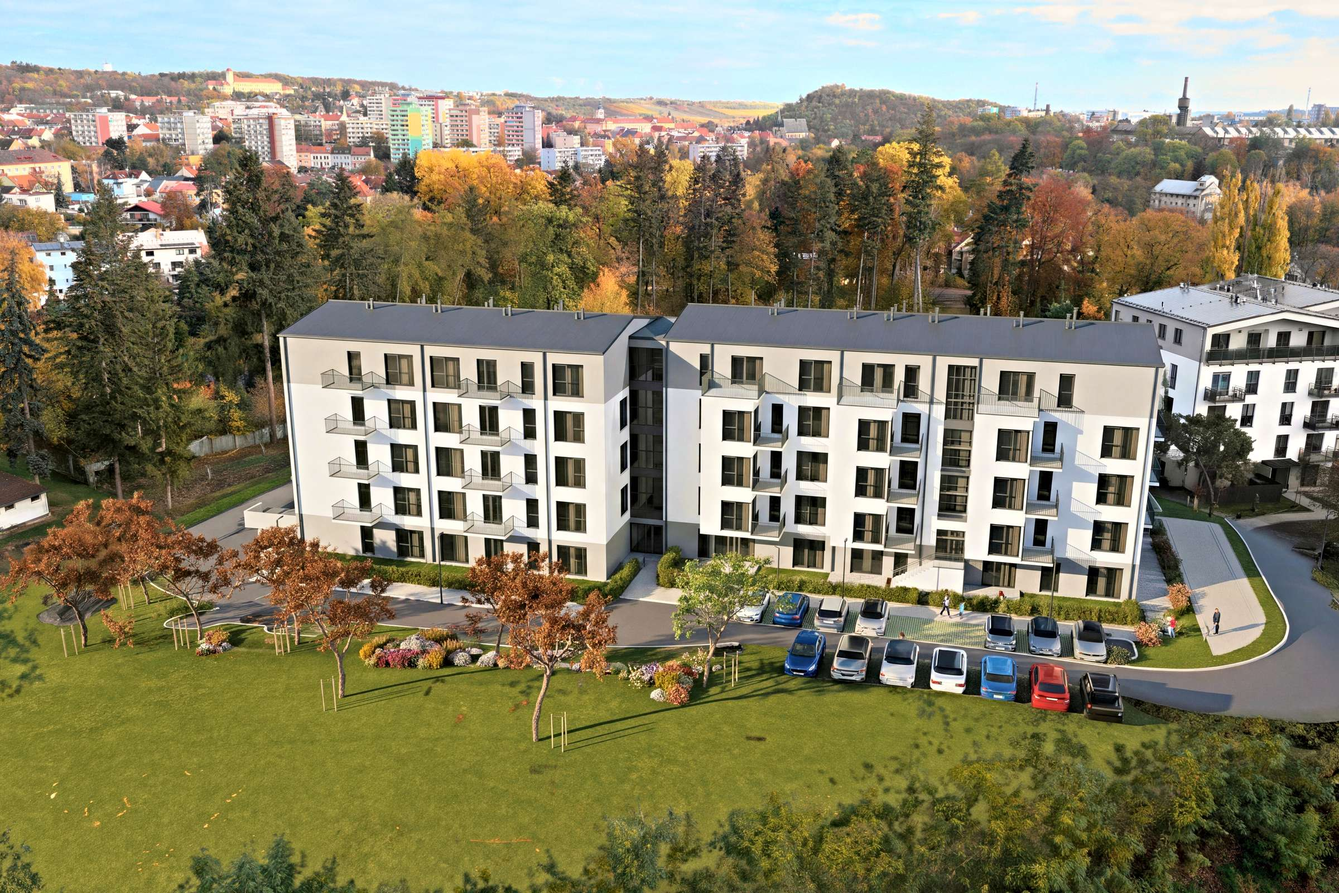
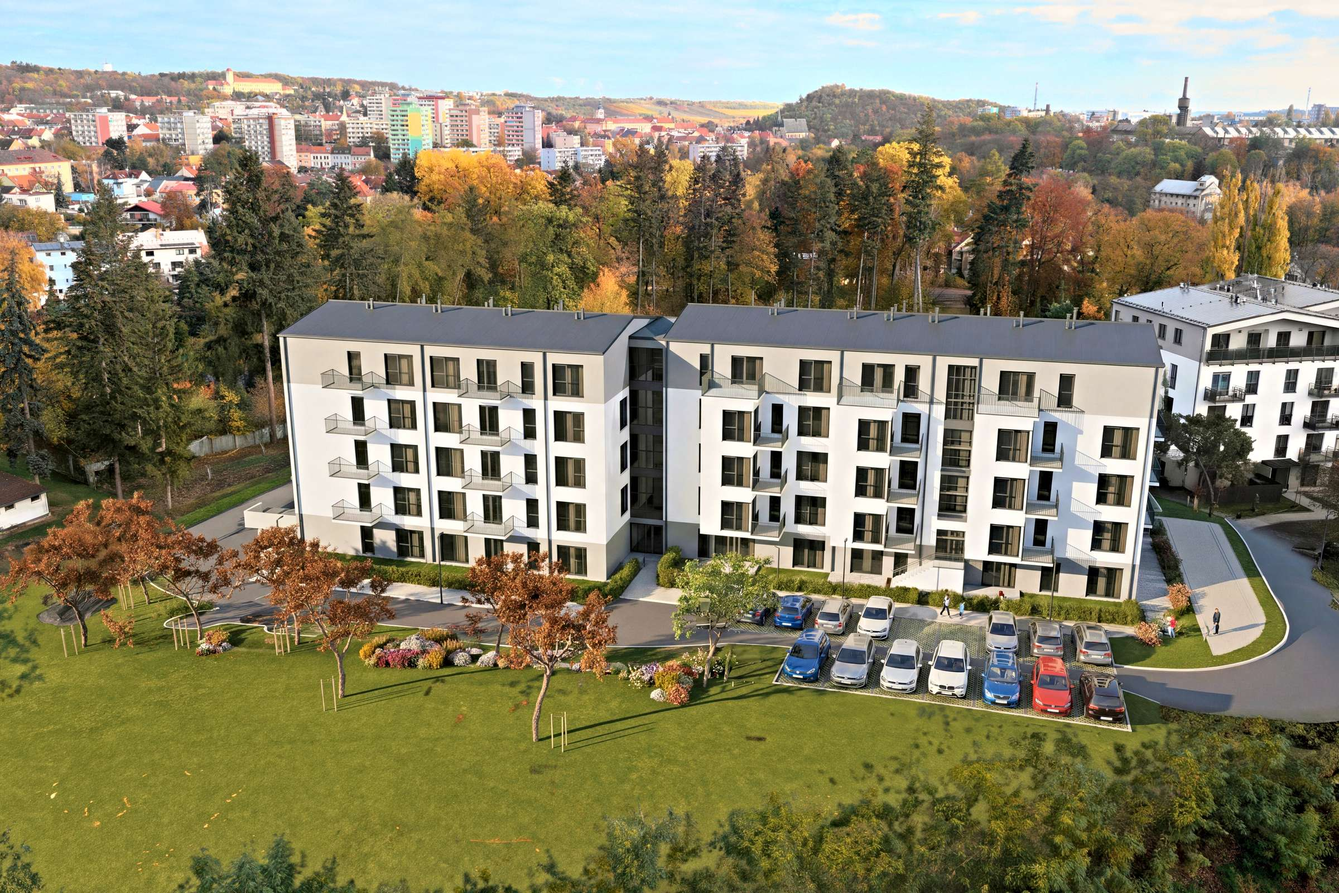
Průběh: vizualizace D1–D4 se skutečnými auty (místo krabic), bez parkovacích kapes SO 04

Changed region(s): [[0.5, 0.625, 0.875, 0.8438]]

diff --git a/prubeh/index.html b/prubeh/index.html
@@ -236,7 +236,7 @@
 
 <div class="pg">
 <div class="hero" style="height:520px">
-  <img src="img/hero_bb.jpg?v=202611020943" alt="Byty Borovského, Verde Slaný">
+  <img src="img/hero_bb.jpg?v=202611021023" alt="Byty Borovského, Verde Slaný">
   <div class="wrap">
     <div class="lockup"><svg class="glyph" viewBox="0 0 64 64"><g stroke="currentColor" stroke-width="5" stroke-linecap="round" fill="none"><line x1="32" y1="32" x2="17" y2="17"/><line x1="32" y1="32" x2="47" y2="17"/><line x1="32" y1="32" x2="17" y2="47"/><line x1="32" y1="32" x2="47" y2="47"/></g><g fill="none" stroke="currentColor" stroke-width="4.5"><circle cx="17" cy="17" r="8.5"/><circle cx="47" cy="17" r="8.5"/><circle cx="17" cy="47" r="8.5"/><circle cx="47" cy="47" r="8.5"/></g><rect x="25.5" y="25.5" width="13" height="13" rx="3.5" fill="currentColor"/></svg><div class="wstack"><span class="wtop">FRANTIŠEK</span><span class="wbot">DRON</span></div></div>
     <div class="eyebrow">Průběh postprodukce · stav k 2. 11. 2026 · Byty Borovského a Verde Slaný II</div>
@@ -249,19 +249,19 @@
 <section class="sec"><div class="wrap">
   <div class="eyebrow">Na čem pracujeme</div>
   <div class="done">
-    <figure><div class="trio"><img src="img/foto_obyvak.jpg?v=202611020943" alt="Obývák mezonetu"><img src="img/foto_ext.jpg?v=202611020943" alt="Byty Borovského"><img src="img/foto_dron.jpg?v=202611020943" alt="Slaný z dronu"></div>
+    <figure><div class="trio"><img src="img/foto_obyvak.jpg?v=202611021023" alt="Obývák mezonetu"><img src="img/foto_ext.jpg?v=202611021023" alt="Byty Borovského"><img src="img/foto_dron.jpg?v=202611021023" alt="Slaný z dronu"></div>
       <figcaption><span class="stav ceka">Rozpracováno</span><b>Fotky z natáčení</b>93 fotek bytu a okolí, každá složená z pěti expozic, v jednotné barvě. Teď je digitálně čistíme (kabely, záplaty na stropě, staveniště). Fotky z dronu nad stavbou doplníme.</figcaption></figure>
-    <figure><img src="img/so05_shora.jpg?v=202611020943" alt="Model domu SO 05 na mapě" style="aspect-ratio:16/9;object-position:center 60%">
+    <figure><img src="img/so05_shora.jpg?v=202611021023" alt="Model domu SO 05 na mapě" style="aspect-ratio:16/9;object-position:center 60%">
       <figcaption><span class="stav ceka">Rozpracováno</span><b>Dům vyroste: model druhé etapy</b>Dům SO 05 jsme postavili ve 3D podle projektové dokumentace a zasadili do mapy. Obrys sedí na parcelu v katastru. Až zpracujeme záběry z dronu, dům v nich vyroste patro po patru.</figcaption></figure>
-    <figure><img src="img/zakres_etapy.jpg?v=202611020943" alt="Vyznačení dalších etap">
+    <figure><img src="img/zakres_etapy.jpg?v=202611021023" alt="Vyznačení dalších etap">
       <figcaption><span class="stav ceka">Rozpracováno · ke schválení</span><b>Další etapy v jednom záběru</b>Domy, které teprve budou, decentně vyznačíme. Údaje na popiscích potvrď prosím v otázkách.</figcaption></figure>
-    <figure><div class="pair"><img src="img/grafika_titulek.jpg?v=202611020943" alt="Titulek Byty Borovského"><img src="img/grafika_karta.jpg?v=202611020943" alt="Závěrečná karta Verde Slaný"></div>
+    <figure><div class="pair"><img src="img/grafika_titulek.jpg?v=202611021023" alt="Titulek Byty Borovského"><img src="img/grafika_karta.jpg?v=202611021023" alt="Závěrečná karta Verde Slaný"></div>
       <figcaption><span class="stav ceka">Rozpracováno · ke schválení</span><b>Grafika podle vašeho logomanuálu</b>Titulky, popisky místností i závěrečná karta v barvách a skladbě loga Verde Slaný. U Bytů Borovského s lososovým akcentem z jejich loga.</figcaption></figure>
-    <figure><img src="img/slany_vyznaceni.jpg?v=202611020943" alt="Slaný z dronu s vyznačením Verde"><figcaption><span class="stav ceka">Rozpracováno</span>
+    <figure><img src="img/slany_vyznaceni.jpg?v=202611021023" alt="Slaný z dronu s vyznačením Verde"><figcaption><span class="stav ceka">Rozpracováno</span>
   <b>Slaný shora s vyznačením Verde</b>Verde, náměstí, kostel, obchody, autobusové nádraží, Kumpánova zahrada a koupaliště v jednom záběru z dronu.</figcaption></figure>
-    <figure class="wide"><div class="viz5"><div class="vz"><img src="img/viz/VIZ01_obyvak.jpg?v=202611020943" alt="Obývák s kuchyní, vizualizace"><span>Vizualizace</span></div><div class="vz"><img src="img/viz/VIZ02_kuchyn.jpg?v=202611020943" alt="Kuchyňský kout, vizualizace"><span>Vizualizace</span></div><div class="vz"><img src="img/viz/VIZ03_loznice.jpg?v=202611020943" alt="Ložnice, vizualizace"><span>Vizualizace</span></div><div class="vz"><img src="img/viz/VIZ04_detsky.jpg?v=202611020943" alt="Dětský pokoj, vizualizace"><span>Vizualizace</span></div><div class="vz"><img src="img/viz/VIZ05_podkrovi.jpg?v=202611020943" alt="Ložnice pod střechou, vizualizace"><span>Vizualizace</span></div></div>
+    <figure class="wide"><div class="viz5"><div class="vz"><img src="img/viz/VIZ01_obyvak.jpg?v=202611021023" alt="Obývák s kuchyní, vizualizace"><span>Vizualizace</span></div><div class="vz"><img src="img/viz/VIZ02_kuchyn.jpg?v=202611021023" alt="Kuchyňský kout, vizualizace"><span>Vizualizace</span></div><div class="vz"><img src="img/viz/VIZ03_loznice.jpg?v=202611021023" alt="Ložnice, vizualizace"><span>Vizualizace</span></div><div class="vz"><img src="img/viz/VIZ04_detsky.jpg?v=202611021023" alt="Dětský pokoj, vizualizace"><span>Vizualizace</span></div><div class="vz"><img src="img/viz/VIZ05_podkrovi.jpg?v=202611021023" alt="Ložnice pod střechou, vizualizace"><span>Vizualizace</span></div></div>
       <figcaption><span class="stav ceka">Rozpracováno · ke schválení</span><b>Zařízený mezonet: vizualizace</b>Jak může prázdný mezonet vypadat zařízený: obývák s kuchyní, ložnice, dětský pokoj a ložnice pod střechou. Stavba je přesně podle fotek, mění se jen nábytek. Ve filmu i v inzerátu vždy se štítkem „Vizualizace“.</figcaption></figure>
-    <figure><img src="img/grafika_popisek.jpg?v=202611020943" alt="Popisek místnosti v mezonetu">
+    <figure><img src="img/grafika_popisek.jpg?v=202611021023" alt="Popisek místnosti v mezonetu">
       <figcaption><span class="stav ceka">Rozpracováno</span><b>Film o mezonetu</b>Skládáme videoprohlídku mezonetu podle karty bytu. Popisky místností budou jako na obrázku. 3D prohlídka mezonetu je už hotová, najdeš ji níže.</figcaption></figure>
   </div>
 </div></section>
@@ -273,10 +273,10 @@
     <figure class="wide"><div class="m3d" id="m3d"><iframe src="model/index.html" title="3D model domu SO 05" loading="lazy" allow="fullscreen" allowfullscreen></iframe><button class="m3d-x" id="m3dx" type="button" aria-label="Zavřít celou obrazovku">✕ Zavřít</button></div>
       <figcaption><span class="stav ceka">Rozpracováno · ke schválení</span><b>3D model domu SO 05</b>Model domu podle projektové dokumentace. Táhnutím ho otočíš, kolečkem nebo dvěma prsty přiblížíš.
         <span class="btns"><button class="btn" id="m3dfull" type="button">Na celou obrazovku</button></span></figcaption></figure>
-    <figure><img src="img/tour_mezonet.jpg?v=202611020943" alt="Náhled 3D prohlídky mezonetu">
+    <figure><img src="img/tour_mezonet.jpg?v=202611021023" alt="Náhled 3D prohlídky mezonetu">
       <figcaption><span class="stav ceka">Rozpracováno</span><b>Mezonet v Bytech Borovského</b>Zatím není finální – jen pro představu, jak to zhruba bude vypadat. 3D prohlídka mezonetu podle fotek z natáčení a karty bytu. Zařízení je ilustrační vizualizace. Přepínačem Prázdný / Zařízený se přepíná mezi prázdným a zařízeným bytem.
         <span class="btns"><a class="btn" href="prohlidka-mezonet/" target="_blank" rel="noopener">Projít ve 3D</a></span></figcaption></figure>
-    <figure><img src="img/tour_byt.jpg?v=202611020943" alt="Náhled 3D prohlídky typového bytu">
+    <figure><img src="img/tour_byt.jpg?v=202611021023" alt="Náhled 3D prohlídky typového bytu">
       <figcaption><span class="stav ceka">Rozpracováno</span><b>Typový byt 3+kk ve druhé etapě</b>Zatím není finální – jen pro představu, jak to zhruba bude vypadat. Byt B.3.3, nejčastější typ v domě (8 bytů), asi 65 m² podle projektové dokumentace. Dům se staví, model je podle výkresů. Zařízení je ilustrační vizualizace, přepínač Prázdný / Zařízený je stejný.
         <span class="btns"><a class="btn" href="prohlidka-byt/" target="_blank" rel="noopener">Projít ve 3D</a></span></figcaption></figure>
   </div>
@@ -288,7 +288,7 @@
   <div class="eyebrow">Dům v záběrech z dronu: vizualizace</div>
   <p class="lead">Dům podle projektové dokumentace jsme vložili do skutečných fotek z dronu a dotáhli do realistické podoby i s okolím, auty a lidmi. Je to rozpracovaná ilustrace k odsouhlasení: okolí vychází ze situace architekta, sousední plochy dalších etap ukazujeme jako upravený trávník, jeřáb a staveniště jsou pryč.</p>
   <div class="done">
-    <figure class="wide"><div class="viz4"><div class="vz zm"><img src="img/viz_d1.jpg?v=202611020943" alt="Top shot, vizualizace domu v záběru z dronu"><span class="lab">Vizualizace</span></div><div class="vz zm"><img src="img/viz_d2.jpg?v=202611020943" alt="Pohled od západu, vizualizace domu v záběru z dronu"><span class="lab">Vizualizace</span></div><div class="vz zm"><img src="img/viz_d3.jpg?v=202611020943" alt="Pohled od jihozápadu, vizualizace domu v záběru z dronu"><span class="lab">Vizualizace</span></div><div class="vz zm"><img src="img/viz_d4.jpg?v=202611020943" alt="Pohled od severovýchodu, vizualizace domu v záběru z dronu"><span class="lab">Vizualizace</span></div></div>
+    <figure class="wide"><div class="viz4"><div class="vz zm"><img src="img/viz_d1.jpg?v=202611021023" alt="Top shot, vizualizace domu v záběru z dronu"><span class="lab">Vizualizace</span></div><div class="vz zm"><img src="img/viz_d2.jpg?v=202611021023" alt="Pohled od západu, vizualizace domu v záběru z dronu"><span class="lab">Vizualizace</span></div><div class="vz zm"><img src="img/viz_d3.jpg?v=202611021023" alt="Pohled od jihozápadu, vizualizace domu v záběru z dronu"><span class="lab">Vizualizace</span></div><div class="vz zm"><img src="img/viz_d4.jpg?v=202611021023" alt="Pohled od severovýchodu, vizualizace domu v záběru z dronu"><span class="lab">Vizualizace</span></div></div>
       <figcaption><span class="stav ceka">Rozpracováno · ke schválení</span><b>Čtyři pohledy: top shot, od západu, od jihozápadu a od severovýchodu</b>Klikem obrázek zvětšíš. Ve filmu i v inzerátu budou vždy se štítkem „Vizualizace“.</figcaption></figure>
   </div>
 </div></section>
@@ -297,7 +297,7 @@
   <div class="eyebrow">Fotky z dronu</div>
   <p class="lead">Výběr z fotek z dronu z 29. 10. v jednotných barvách. Celou sadu pošleme po finálních úpravách.</p>
   <div class="done">
-    <figure class="wide"><div class="dron6"><div class="vz zm"><img src="img/dron/dron_1.jpg?v=202611020943" alt="Areál se stavbou druhé etapy"><span class="lab">Areál se stavbou druhé etapy</span></div><div class="vz zm"><img src="img/dron/dron_2.jpg?v=202611020943" alt="Verde I a stavba, v pozadí Slaný"><span class="lab">Verde I a stavba, v pozadí Slaný</span></div><div class="vz zm"><img src="img/dron/dron_3.jpg?v=202611020943" alt="Kumpánova zahrada a město"><span class="lab">Kumpánova zahrada a město</span></div><div class="vz zm"><img src="img/dron/dron_4.jpg?v=202611020943" alt="Kostel a centrum"><span class="lab">Kostel a centrum</span></div><div class="vz zm"><img src="img/dron/dron_5.jpg?v=202611020943" alt="Masarykovo náměstí"><span class="lab">Masarykovo náměstí</span></div><div class="vz zm"><img src="img/dron/dron_6.jpg?v=202611020943" alt="Slaný z výšky"><span class="lab">Slaný z výšky</span></div></div>
+    <figure class="wide"><div class="dron6"><div class="vz zm"><img src="img/dron/dron_1.jpg?v=202611021023" alt="Areál se stavbou druhé etapy"><span class="lab">Areál se stavbou druhé etapy</span></div><div class="vz zm"><img src="img/dron/dron_2.jpg?v=202611021023" alt="Verde I a stavba, v pozadí Slaný"><span class="lab">Verde I a stavba, v pozadí Slaný</span></div><div class="vz zm"><img src="img/dron/dron_3.jpg?v=202611021023" alt="Kumpánova zahrada a město"><span class="lab">Kumpánova zahrada a město</span></div><div class="vz zm"><img src="img/dron/dron_4.jpg?v=202611021023" alt="Kostel a centrum"><span class="lab">Kostel a centrum</span></div><div class="vz zm"><img src="img/dron/dron_5.jpg?v=202611021023" alt="Masarykovo náměstí"><span class="lab">Masarykovo náměstí</span></div><div class="vz zm"><img src="img/dron/dron_6.jpg?v=202611021023" alt="Slaný z výšky"><span class="lab">Slaný z výšky</span></div></div>
       <figcaption><span class="stav ceka">Rozpracováno · ke schválení</span><b>Areál, Verde I a Slaný z dronu</b>Klikem obrázek zvětšíš.</figcaption></figure>
   </div>
 </div></section>
@@ -306,7 +306,7 @@
   <div class="eyebrow">Potřebujeme od tebe</div>
   <p class="lead">Vyplň, co víš, a klikni na Odeslat. Odeslat můžeš i víckrát, odeslané odpovědi uvidíš dole.</p>
   <form class="form" id="fm" onsubmit="return false">
-    <div class="q need" data-q="povoleni" data-label="Další etapy: stavební povolení a termíny"><h4>Další etapy: stavební povolení a termíny</h4><p class="h">Na popisky SO 01 (dům do U), SO 03 a SO 04 bychom rádi napsali „stavební povolení vydáno“. Jak to je? A chcete tam i termíny nebo jiné názvy (třeba 3. / 4. / 5. etapa)?</p><div class="opts"><label><input type="radio" name="povoleni" value="Vydané a pravomocné u všech tří"><span>Vydané a pravomocné u všech tří</span></label><label><input type="radio" name="povoleni" value="Vydané, zatím ne pravomocné"><span>Vydané, zatím ne pravomocné</span></label><label><input type="radio" name="povoleni" value="U některých ještě ne"><span>U některých ještě ne</span></label><label><input type="radio" name="povoleni" value="Zatím ne"><span>Zatím ne</span></label></div><textarea id="n_povoleni" data-note="povoleni" placeholder="Termíny, názvy, upřesnění"></textarea></div><div class="q" data-q="udaje" data-label="Údaje ve filmech"><h4>Údaje ve filmech</h4><p class="h">Druhá etapa: 48 bytů, kolaudace 2Q 2028. Byty Borovského: zkolaudované, předání koncem roku. Sedí to a smíme to tak uvést?</p><div class="opts"><label><input type="radio" name="udaje" value="Sedí"><span>Sedí</span></label><label><input type="radio" name="udaje" value="Upravit"><span>Upravit</span></label></div><textarea id="n_udaje" data-note="udaje" placeholder="Co upravit"></textarea></div><div class="q" data-q="vysky" data-label="Světlá výška v mezonetu"><h4>Světlá výška v mezonetu</h4><p class="h">Pro 3D prohlídku: jaká je světlá výška dole (chodba, ložnice) a v jaké výšce je podlaha horního patra? Z fotek a karty bytu nám vychází dole 2,58–2,69 m a podlaha horního patra 2,95 m.</p><div class="opts"><label><input type="radio" name="vysky" value="Sedí to"><span>Sedí to</span></label><label><input type="radio" name="vysky" value="Pošlu řez e-mailem"><span>Pošlu řez e-mailem</span></label><label><input type="radio" name="vysky" value="Napíšu sem"><span>Napíšu sem</span></label></div><textarea id="n_vysky" data-note="vysky" placeholder="Např. dole 2,60 m, podlaha horního patra 2,95 m"></textarea></div><div class="q" data-q="hudba" data-label="Hudba k filmům"><h4>Hudba k filmům</h4><p class="h">Tři ukázky (30 s), všechny instrumentální. Vyber, která se ti k filmům líbí nejvíc.</p><div class="hud"><label class="opts"><input type="radio" name="hudba" value="A"><span>A</span></label><span class="hn">moderní, klidná, prémiová</span><audio controls preload="none" src="hudba/A.mp3?v=202611020943"></audio></div><div class="hud"><label class="opts"><input type="radio" name="hudba" value="B"><span>B</span></label><span class="hn">klavír s výraznějším basem</span><audio controls preload="none" src="hudba/B.mp3?v=202611020943"></audio></div><div class="hud"><label class="opts"><input type="radio" name="hudba" value="C"><span>C</span></label><span class="hn">uvolněná, jazzová</span><audio controls preload="none" src="hudba/C.mp3?v=202611020943"></audio></div><textarea id="n_hudba" data-note="hudba" placeholder="Poznámka k hudbě (nepovinné)"></textarea></div><div class="q need" data-q="kontakt" data-label="Kontakt na závěrečnou kartu"><h4>Kontakt na závěrečnou kartu</h4><p class="h">Web, telefon a jméno na konec filmů.</p><textarea id="n_kontakt" data-note="kontakt" placeholder="Např. verdeslany.cz · +420 … · jméno"></textarea></div><div class="q" data-q="styl" data-label="Styl zařízení mezonetu"><h4>Styl zařízení mezonetu</h4><p class="h">Pět vizualizací nahoře: skandinávský styl, světlý dub, len a olivové doplňky. Sedí to na kupce Bytů Borovského?</p><div class="opts"><label><input type="radio" name="styl" value="Schvaluji"><span>Schvaluji</span></label><label><input type="radio" name="styl" value="Chci jiný styl"><span>Chci jiný styl</span></label></div><textarea id="n_styl" data-note="styl" placeholder="Co změnit (styl, barvy, nábytek)"></textarea></div><div class="q" data-q="byt2" data-label="Sedí výběr bytu?"><h4>Sedí výběr bytu?</h4><p class="h">Prohlídka typového bytu už je hotová (výše): byt B.3.3, 3+kk, asi 65 m² podle projektové dokumentace, nejčastější typ domu (8 bytů). Sedí tenhle byt, nebo máme udělat jiný?</p><div class="opts"><label><input type="radio" name="byt2" value="Sedí"><span>Sedí</span></label><label><input type="radio" name="byt2" value="Chci jiný byt, napíšu"><span>Chci jiný byt, napíšu</span></label></div><textarea id="n_byt2" data-note="byt2" placeholder="Číslo bytu nebo poznámka"></textarea></div><div class="q" data-q="fasada" data-label="Bílá fasáda: stejná jako u první etapy?"><h4>Bílá fasáda: stejná jako u první etapy?</h4><p class="h">Podle projektové dokumentace má druhá etapa bílou omítku Baumit SilikonTop 0019 a šedou 0436. Má být bílá stejná jako u hotových domů první etapy, aby na fotkách a ve filmu působily stejně?</p><div class="opts"><label><input type="radio" name="fasada" value="Ano, stejná bílá"><span>Ano, stejná bílá</span></label><label><input type="radio" name="fasada" value="Ne, je jiná"><span>Ne, je jiná</span></label><label><input type="radio" name="fasada" value="Nevím, zjistím"><span>Nevím, zjistím</span></label></div><textarea id="n_fasada" data-note="fasada" placeholder="Upřesnění (nepovinné)"></textarea></div><div class="q" data-q="model3d" data-label="Schválení: 3D model domu a vizualizace z dronu"><h4>Schválení: 3D model domu a vizualizace z dronu</h4><p class="h">3D model domu SO 05, dvě 3D prohlídky a čtyři vizualizace domu v záběrech z dronu (výše). Schvaluješ, nebo napiš, co upravit.</p><div class="opts"><label><input type="radio" name="model3d" value="Schvaluji"><span>Schvaluji</span></label><label><input type="radio" name="model3d" value="Chci upravit"><span>Chci upravit</span></label></div><textarea id="n_model3d" data-note="model3d" placeholder="Co upravit"></textarea></div><div class="q" data-q="schvaleni" data-label="Schválení: grafika titulků, vyznačení Slaného a další etapy"><h4>Schválení: grafika titulků, vyznačení Slaného a další etapy</h4><p class="h">Obrázky nahoře: Slaný s vyznačením Verde, další etapy v jednom záběru a grafika titulků. 3D model a vizualizace z dronu schvaluješ zvlášť o otázku výš.</p><div class="opts"><label><input type="radio" name="schvaleni" value="Schvaluji"><span>Schvaluji</span></label><label><input type="radio" name="schvaleni" value="Chci upravit"><span>Chci upravit</span></label></div><textarea id="n_schvaleni" data-note="schvaleni" placeholder="Co upravit"></textarea></div>
+    <div class="q need" data-q="povoleni" data-label="Další etapy: stavební povolení a termíny"><h4>Další etapy: stavební povolení a termíny</h4><p class="h">Na popisky SO 01 (dům do U), SO 03 a SO 04 bychom rádi napsali „stavební povolení vydáno“. Jak to je? A chcete tam i termíny nebo jiné názvy (třeba 3. / 4. / 5. etapa)?</p><div class="opts"><label><input type="radio" name="povoleni" value="Vydané a pravomocné u všech tří"><span>Vydané a pravomocné u všech tří</span></label><label><input type="radio" name="povoleni" value="Vydané, zatím ne pravomocné"><span>Vydané, zatím ne pravomocné</span></label><label><input type="radio" name="povoleni" value="U některých ještě ne"><span>U některých ještě ne</span></label><label><input type="radio" name="povoleni" value="Zatím ne"><span>Zatím ne</span></label></div><textarea id="n_povoleni" data-note="povoleni" placeholder="Termíny, názvy, upřesnění"></textarea></div><div class="q" data-q="udaje" data-label="Údaje ve filmech"><h4>Údaje ve filmech</h4><p class="h">Druhá etapa: 48 bytů, kolaudace 2Q 2028. Byty Borovského: zkolaudované, předání koncem roku. Sedí to a smíme to tak uvést?</p><div class="opts"><label><input type="radio" name="udaje" value="Sedí"><span>Sedí</span></label><label><input type="radio" name="udaje" value="Upravit"><span>Upravit</span></label></div><textarea id="n_udaje" data-note="udaje" placeholder="Co upravit"></textarea></div><div class="q" data-q="vysky" data-label="Světlá výška v mezonetu"><h4>Světlá výška v mezonetu</h4><p class="h">Pro 3D prohlídku: jaká je světlá výška dole (chodba, ložnice) a v jaké výšce je podlaha horního patra? Z fotek a karty bytu nám vychází dole 2,58–2,69 m a podlaha horního patra 2,95 m.</p><div class="opts"><label><input type="radio" name="vysky" value="Sedí to"><span>Sedí to</span></label><label><input type="radio" name="vysky" value="Pošlu řez e-mailem"><span>Pošlu řez e-mailem</span></label><label><input type="radio" name="vysky" value="Napíšu sem"><span>Napíšu sem</span></label></div><textarea id="n_vysky" data-note="vysky" placeholder="Např. dole 2,60 m, podlaha horního patra 2,95 m"></textarea></div><div class="q" data-q="hudba" data-label="Hudba k filmům"><h4>Hudba k filmům</h4><p class="h">Tři ukázky (30 s), všechny instrumentální. Vyber, která se ti k filmům líbí nejvíc.</p><div class="hud"><label class="opts"><input type="radio" name="hudba" value="A"><span>A</span></label><span class="hn">moderní, klidná, prémiová</span><audio controls preload="none" src="hudba/A.mp3?v=202611021023"></audio></div><div class="hud"><label class="opts"><input type="radio" name="hudba" value="B"><span>B</span></label><span class="hn">klavír s výraznějším basem</span><audio controls preload="none" src="hudba/B.mp3?v=202611021023"></audio></div><div class="hud"><label class="opts"><input type="radio" name="hudba" value="C"><span>C</span></label><span class="hn">uvolněná, jazzová</span><audio controls preload="none" src="hudba/C.mp3?v=202611021023"></audio></div><textarea id="n_hudba" data-note="hudba" placeholder="Poznámka k hudbě (nepovinné)"></textarea></div><div class="q need" data-q="kontakt" data-label="Kontakt na závěrečnou kartu"><h4>Kontakt na závěrečnou kartu</h4><p class="h">Web, telefon a jméno na konec filmů.</p><textarea id="n_kontakt" data-note="kontakt" placeholder="Např. verdeslany.cz · +420 … · jméno"></textarea></div><div class="q" data-q="styl" data-label="Styl zařízení mezonetu"><h4>Styl zařízení mezonetu</h4><p class="h">Pět vizualizací nahoře: skandinávský styl, světlý dub, len a olivové doplňky. Sedí to na kupce Bytů Borovského?</p><div class="opts"><label><input type="radio" name="styl" value="Schvaluji"><span>Schvaluji</span></label><label><input type="radio" name="styl" value="Chci jiný styl"><span>Chci jiný styl</span></label></div><textarea id="n_styl" data-note="styl" placeholder="Co změnit (styl, barvy, nábytek)"></textarea></div><div class="q" data-q="byt2" data-label="Sedí výběr bytu?"><h4>Sedí výběr bytu?</h4><p class="h">Prohlídka typového bytu už je hotová (výše): byt B.3.3, 3+kk, asi 65 m² podle projektové dokumentace, nejčastější typ domu (8 bytů). Sedí tenhle byt, nebo máme udělat jiný?</p><div class="opts"><label><input type="radio" name="byt2" value="Sedí"><span>Sedí</span></label><label><input type="radio" name="byt2" value="Chci jiný byt, napíšu"><span>Chci jiný byt, napíšu</span></label></div><textarea id="n_byt2" data-note="byt2" placeholder="Číslo bytu nebo poznámka"></textarea></div><div class="q" data-q="fasada" data-label="Bílá fasáda: stejná jako u první etapy?"><h4>Bílá fasáda: stejná jako u první etapy?</h4><p class="h">Podle projektové dokumentace má druhá etapa bílou omítku Baumit SilikonTop 0019 a šedou 0436. Má být bílá stejná jako u hotových domů první etapy, aby na fotkách a ve filmu působily stejně?</p><div class="opts"><label><input type="radio" name="fasada" value="Ano, stejná bílá"><span>Ano, stejná bílá</span></label><label><input type="radio" name="fasada" value="Ne, je jiná"><span>Ne, je jiná</span></label><label><input type="radio" name="fasada" value="Nevím, zjistím"><span>Nevím, zjistím</span></label></div><textarea id="n_fasada" data-note="fasada" placeholder="Upřesnění (nepovinné)"></textarea></div><div class="q" data-q="model3d" data-label="Schválení: 3D model domu a vizualizace z dronu"><h4>Schválení: 3D model domu a vizualizace z dronu</h4><p class="h">3D model domu SO 05, dvě 3D prohlídky a čtyři vizualizace domu v záběrech z dronu (výše). Schvaluješ, nebo napiš, co upravit.</p><div class="opts"><label><input type="radio" name="model3d" value="Schvaluji"><span>Schvaluji</span></label><label><input type="radio" name="model3d" value="Chci upravit"><span>Chci upravit</span></label></div><textarea id="n_model3d" data-note="model3d" placeholder="Co upravit"></textarea></div><div class="q" data-q="schvaleni" data-label="Schválení: grafika titulků, vyznačení Slaného a další etapy"><h4>Schválení: grafika titulků, vyznačení Slaného a další etapy</h4><p class="h">Obrázky nahoře: Slaný s vyznačením Verde, další etapy v jednom záběru a grafika titulků. 3D model a vizualizace z dronu schvaluješ zvlášť o otázku výš.</p><div class="opts"><label><input type="radio" name="schvaleni" value="Schvaluji"><span>Schvaluji</span></label><label><input type="radio" name="schvaleni" value="Chci upravit"><span>Chci upravit</span></label></div><textarea id="n_schvaleni" data-note="schvaleni" placeholder="Co upravit"></textarea></div>
     <div class="q" data-q="jmeno" data-label="Od"><input type="text" id="n_jmeno" data-note="jmeno" placeholder="Jméno (nepovinné)" style="margin-top:0"></div>
     <div class="sendrow"><button class="send" id="send" type="button">Odeslat odpovědi</button><span id="st"></span></div>
   </form>
